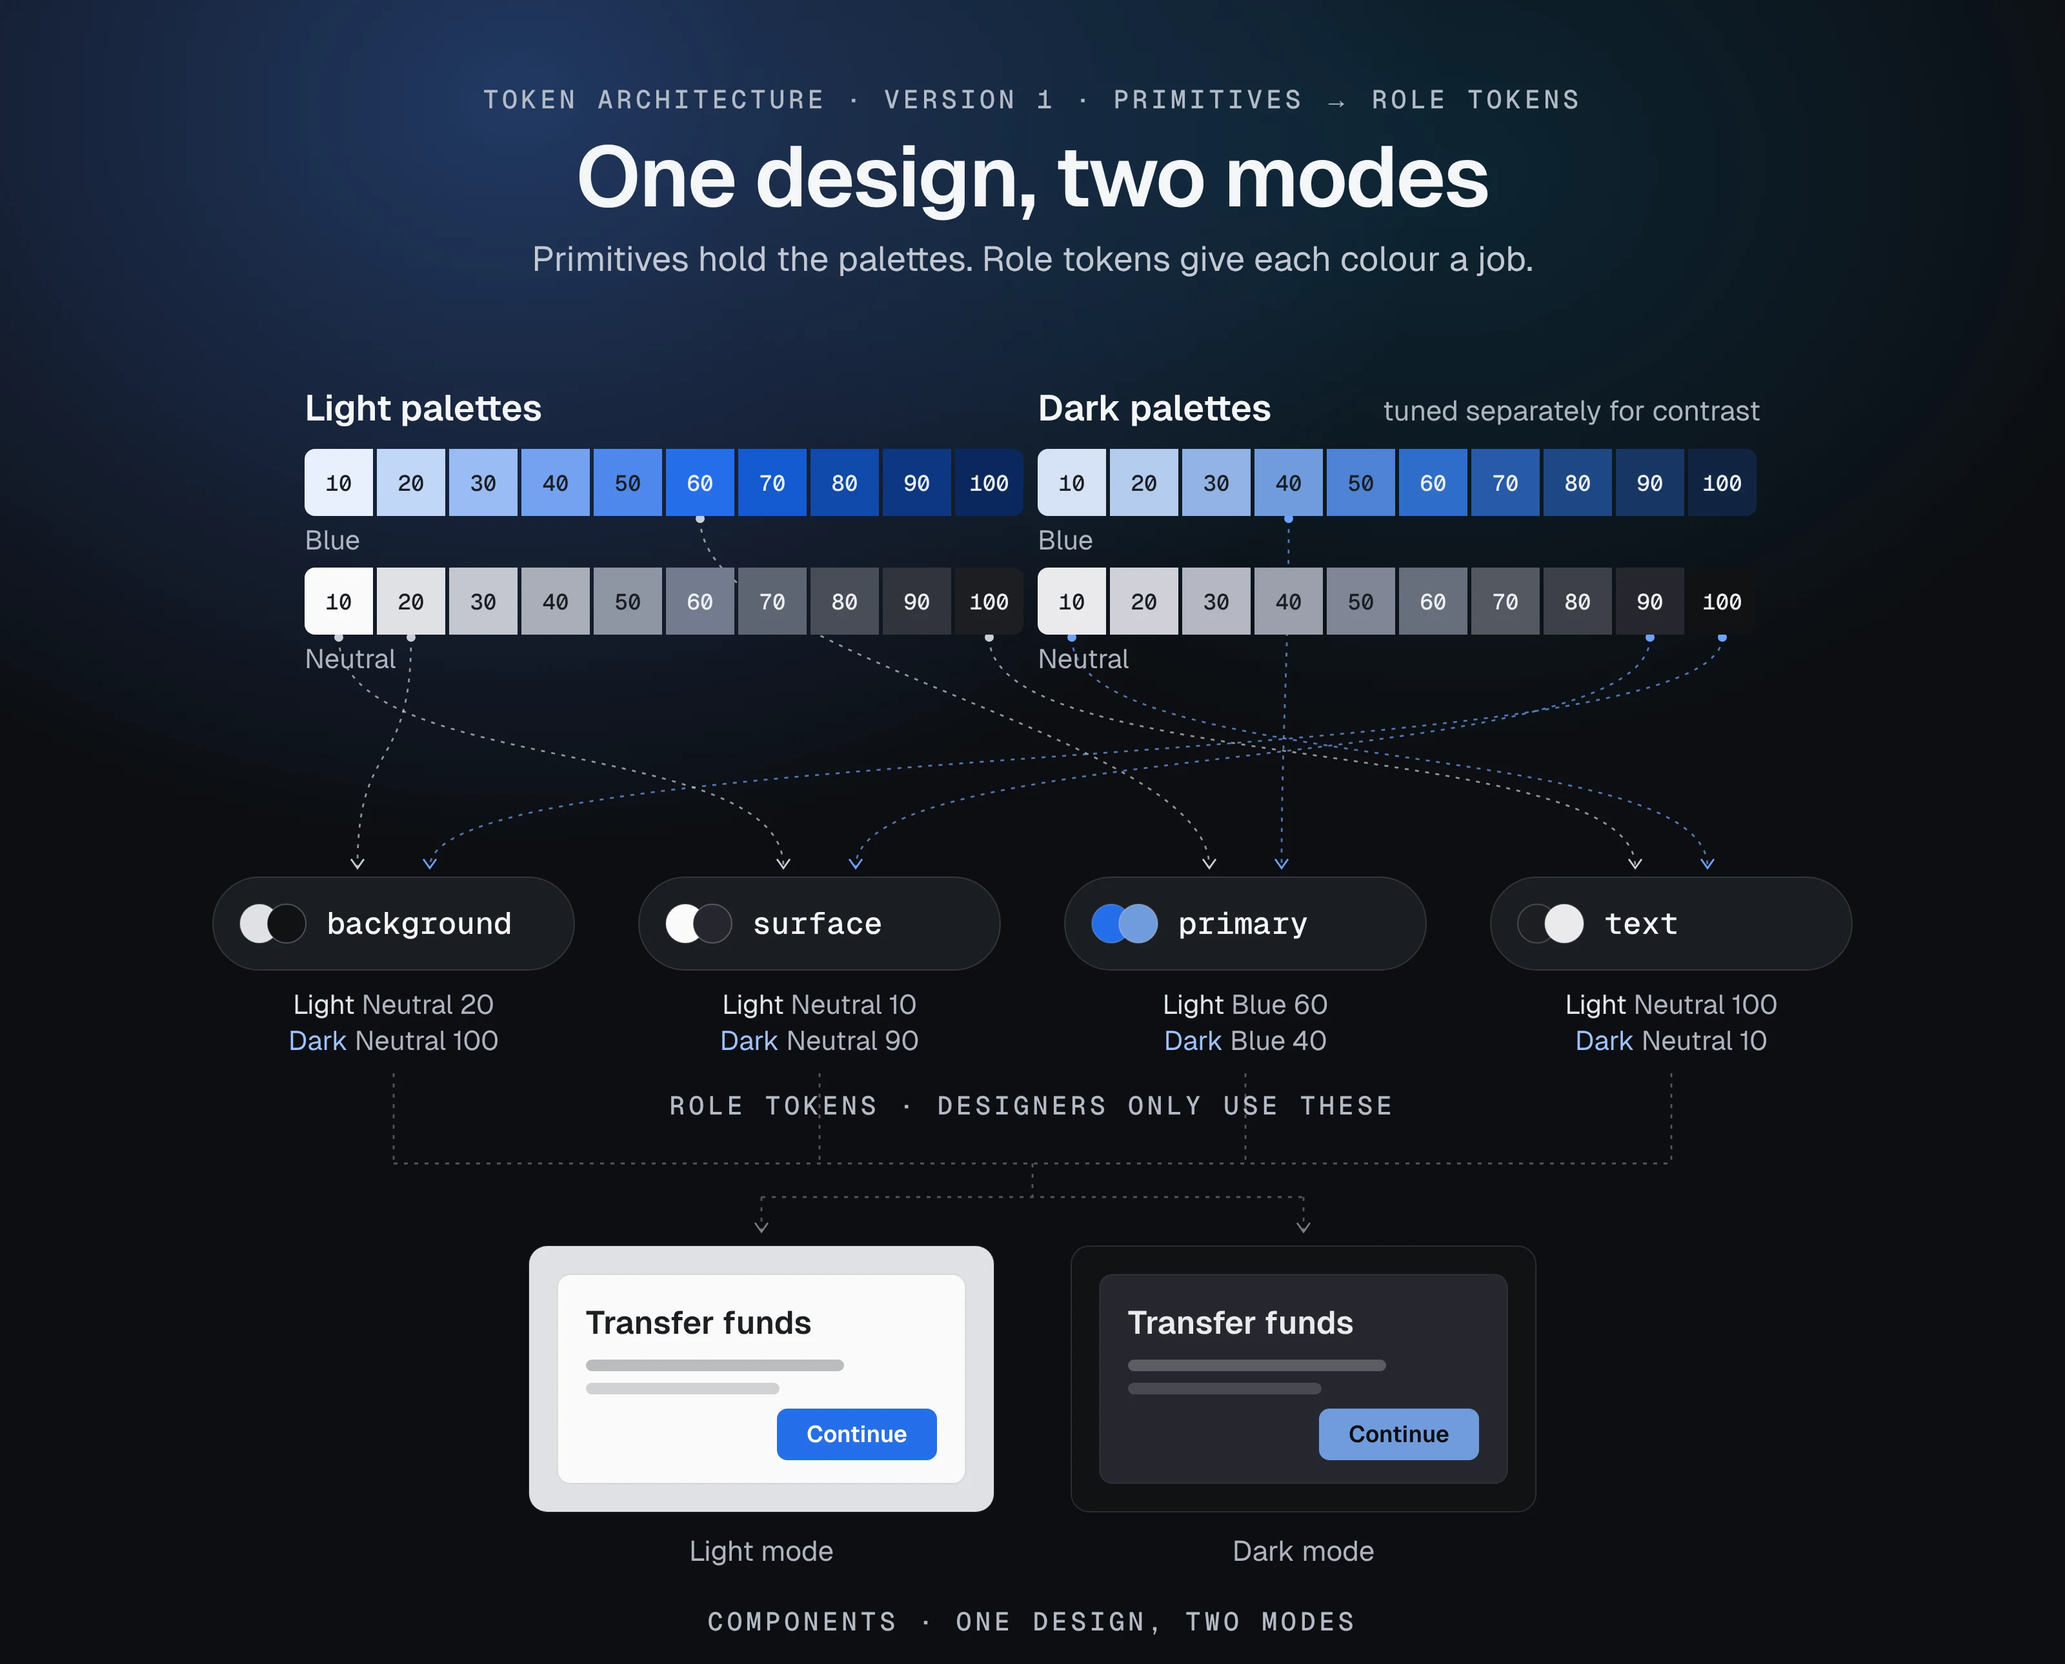
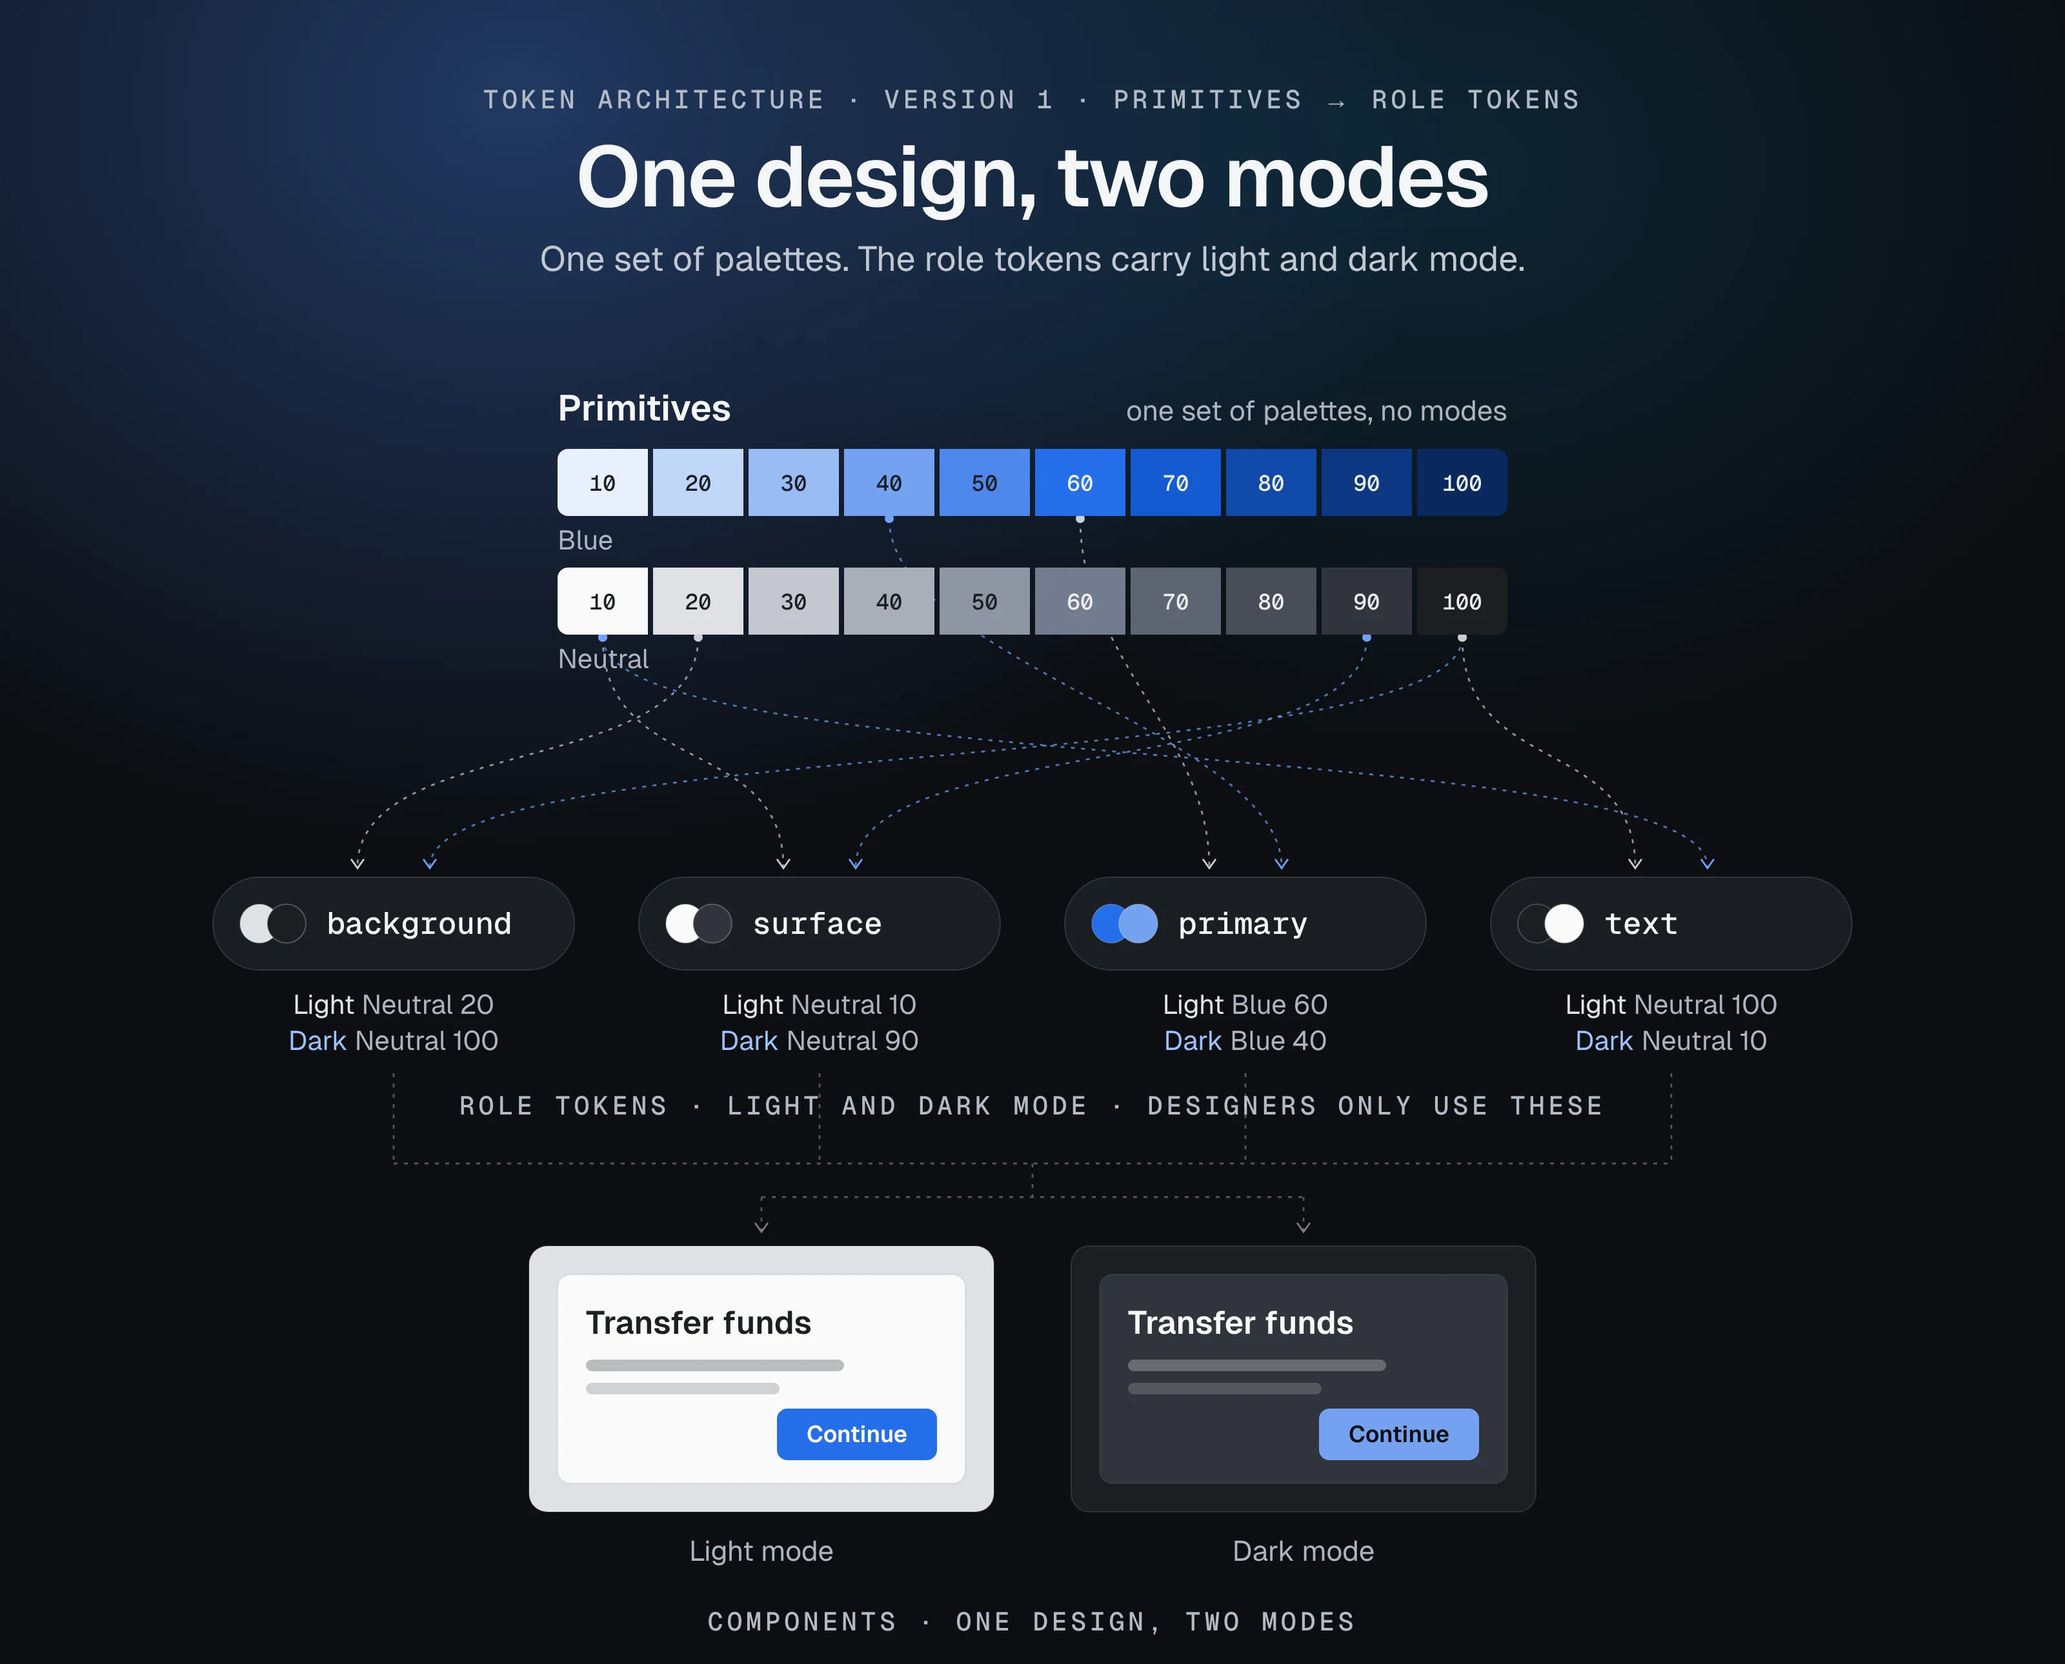
Rule builder: new content; v1 diagram with one palette set
- Rule builder text from the author's file: role, team, 4 of 4 result,
  context, customer signal, product risk, trade-off limit, testing with
  four managers, operational trust, outcome without the platform
  statistics, and a What I'd do differently takeaway
- Home card description and page meta updated
- Design system v1 diagram: one set of palettes; light and dark mode
  live on the role tokens

Claude-Session: https://claude.ai/code/session_01Xxpi6qVg2CXaCBZ57vkRh2

diff --git a/components/casestudy/RuleBuilderCase.tsx b/components/casestudy/RuleBuilderCase.tsx
@@ -21,11 +21,11 @@ export default function RuleBuilderCase() {
 
         <div className="cs-hero-side">
           <CsGlance
-            role="Product Designer, owned simplifying the rules"
-            team="3–4 designers, PM, Developers"
+            role="Product Designer, owned the rule builder and operational trust"
+            team="4 designers, PM, team lead, developers"
             results={[
-              { value: "If → Then", label: "every rule reads as one sentence: a condition, then an event", art: "ifThen" },
-              { value: "2 changes", label: "from testing with operators: live readings and timed waits", art: "testing" },
+              { value: "4 of 4", label: "greenhouse managers built a rule without help in testing", art: "fourOfFour" },
+              { value: "2 changes", label: "came from that testing: live readings and timed waits", art: "testing" },
               { value: "Shipped", label: "live in production, in Persian (RTL)", art: "rtl" },
             ]}
           />
@@ -49,8 +49,9 @@ export default function RuleBuilderCase() {
         <p>
           The product connects greenhouse sensors and controllers to a mobile app. Operators could
           monitor every hall and switch fans, misters and heaters remotely, with a few fixed default
-          rules. But routine operation was still manual: the app provided the control channel, not
-          the autonomy.
+          rules. But routine operation was still manual. When humidity rose, the app sent an alert,
+          and the operator still had to switch on the heater or the fan by hand. The app provided
+          the control channel, not the autonomy.
         </p>
         <p className="cs-quote">
           &ldquo;I have to manually adjust things, like turning the fans on and off throughout the
@@ -75,7 +76,8 @@ export default function RuleBuilderCase() {
         <span className="cs-num">Customer signal</span>
         <h2>Demand for time-based and combined rules</h2>
         <p>
-          User interviews on automation surfaced two needs: rules that run on a schedule, and rules
+          Our team lead visited several greenhouses and interviewed the operators in person. I
+          worked from those findings. Two needs came up: rules that run on a schedule, and rules
           that combine a schedule with a sensor threshold.
         </p>
         <p className="cs-quote">
@@ -93,11 +95,11 @@ export default function RuleBuilderCase() {
         <span className="cs-num">The product risk</span>
         <h2>More capability, fewer people able to use it</h2>
         <p>
-          The core users were older, non-technical, and not comfortable with technology in general.
-          Many already struggled with simple threshold rules and had asked for templates and
-          step-by-step guidance. Each new requirement added
-          expressive power, and moved the product closer to programming. A logic editor would have
-          served the few power users and lost the core segment.
+          The core users were older, non-technical and not comfortable with technology in general.
+          They were unhappy doing everything by hand, but in the greenhouse visits, our team lead
+          saw many of them already struggling with the simple threshold rules they had. Each new
+          requirement added expressive power and moved the product closer to programming. A logic
+          editor would have served the few power users and lost the core segment.
         </p>
         <p className="cs-quote">
           The goal: deliver the expressive power of conditional logic to users who will never think
@@ -138,7 +140,9 @@ WHEN always`}</pre>
         </div>
         <p className="cs-trade">
           <b>Trade-off:</b> less flexible than a free-form editor, and more taps for power users.
-          Accepted, because a wrong rule moves physical equipment.
+          Accepted, because a wrong rule moves physical equipment. The model also has a limit: with
+          several prerequisites, the event sentence gets long, as in the example above. That&apos;s
+          where one sentence starts to strain.
         </p>
       </section>
 
@@ -158,7 +162,7 @@ WHEN always`}</pre>
         <ol className="cs-rules is-plain">
           <li><span><b>Source.</b> A condition watches one specific sensor or the hall average, so a single sensor near a door doesn&apos;t have to decide alone.</span></li>
           <li><span><b>Live readings.</b> Suggested sensors show their current value (&ldquo;air humidity, now 65%&rdquo;), so thresholds are set against the actual state of the hall. Added after testing.</span></li>
-          <li><span><b>Ready-made conditions.</b> Each sensor offers presets, including one with an exit: &ldquo;if it drops below 20%, until it reaches 30%&rdquo;. A custom condition covers the rest.</span></li>
+          <li><span><b>Ready-made conditions.</b> Each sensor offers presets, including one with an exit: &ldquo;if it drops below 20%, until it reaches 30%&rdquo;. The exit keeps machines from flickering on and off around a single threshold. A custom condition covers the rest.</span></li>
           <li><span><b>Suggested controllers.</b> The event starts the same way: the likely devices first, then the full list.</span></li>
         </ol>
         <p className="cs-trade">
@@ -230,11 +234,14 @@ WHEN always`}</pre>
       {/* 7b */}
       <section className="cs-reveal">
         <span className="cs-num">Testing</span>
-        <h2>Two changes came from testing with operators</h2>
-        <p>We tested the flow with a group of operators. Two things they needed were missing:</p>
+        <h2>Four managers, four rules, two changes</h2>
+        <p>
+          We tested the flow with four greenhouse managers. All four built a rule on their own,
+          without help. Two things they needed were missing:
+        </p>
         <ol className="cs-rules is-plain">
-          <li><span><b>The current state.</b> Choosing a sensor showed only its name. Operators wanted to see what it reads right now before setting a threshold, so every sensor card now shows its live value.</span></li>
-          <li><span><b>A wait between devices.</b> Prerequisites only covered another controller&apos;s state. Operators needed time between machines, so a timed wait became a second prerequisite type.</span></li>
+          <li><span><b>The current state.</b> Choosing a sensor showed only its name. Managers wanted to see what it reads right now before setting a threshold, so every sensor card now shows its live value.</span></li>
+          <li><span><b>A wait between devices.</b> Prerequisites only covered another controller&apos;s state. Managers needed time between machines, so a timed wait became a second prerequisite type.</span></li>
         </ol>
       </section>
 
@@ -242,7 +249,10 @@ WHEN always`}</pre>
       <section className="cs-reveal">
         <span className="cs-num">Operational trust</span>
         <h2>Making automation observable and controllable</h2>
-        <p>Handing control to software raised three operator questions, each answered in the product:</p>
+        <p>
+          Handing control to software raised three operator questions. I designed the answers,
+          starting from a brainstorm with the other designers:
+        </p>
         <ol className="cs-rules is-plain">
           <li><span><b>Which rules are running?</b> Rules are grouped into categories, such as seasons, with one active per zone. Switching requires an explicit confirmation of what will run.</span></li>
           <li><span><b>Who changed this device?</b> Every controller shows its current control mode: manual, rule-based or scheduled.</span></li>
@@ -268,28 +278,33 @@ WHEN always`}</pre>
         <h2>Shipped to production</h2>
         <p>
           The rule builder is live, in Persian with a right-to-left layout, on a platform that
-          runs real greenhouses every day. The figures below are taken from the company&apos;s website:
+          runs real greenhouses every day.
         </p>
-        <ul className="cs-results is-four">
-          <li><span className="v">31+</span><span className="l">active users</span></li>
-          <li><span className="v">65+</span><span className="l">active controllers</span></li>
-          <li><span className="v">28M+</span><span className="l">messages sent to the server</span></li>
-          <li><span className="v">99.97%</span><span className="l">system uptime, as stated on the company&apos;s website</span></li>
-        </ul>
-        <p className="cs-source">Source: the company&apos;s public website. Platform-wide figures, not my own measurements.</p>
         <p>
-          I left before post-launch measurement of the rule builder itself.
-          These are the metrics I would use:
+          I left before post-launch measurement. Before leaving, I defined three metrics for the
+          team:
         </p>
         <ol className="cs-rules is-plain">
           <li><span><b>Adoption.</b> Share of accounts with at least one scheduled rule.</span></li>
           <li><span><b>Effort.</b> Manual device switches per week, before and after.</span></li>
           <li><span><b>Conflict.</b> Manual overrides of rule-controlled devices.</span></li>
         </ol>
+      </section>
+
+      {/* 10 */}
+      <section className="cs-reveal">
+        <span className="cs-num">What I learned</span>
         <p className="cs-takeaway">
-          <span>What I learned</span>
           In automation products, the limit is rarely the engine. It&apos;s the user&apos;s model of
           it. Design the model first, then the interface.
+        </p>
+        <p className="cs-takeaway">
+          <span>What I&apos;d do differently</span>
+          The schedule is the one screen where the one-sentence idea breaks. With an interval, an
+          on-duration and active time windows combined, operators can&apos;t see when their device
+          will actually run. I&apos;d end the schedule the way the rule itself works: with one
+          summary sentence, such as &ldquo;Monday and Friday at 08:00, 10:00 and 13:00, on for 25
+          minutes each.&rdquo;
         </p>
       </section>
 

diff --git a/components/casestudy/GlanceArt.tsx b/components/casestudy/GlanceArt.tsx
@@ -10,7 +10,7 @@ import type { CSSProperties, ReactNode } from "react";
 export type GlanceArtName =
   | "questions" | "products" | "oneDesign"
   | "tickets" | "audit" | "rules"
-  | "ifThen" | "testing" | "rtl"
+  | "ifThen" | "fourOfFour" | "testing" | "rtl"
   | "deflect" | "onePage" | "live"
   | "oneRow" | "verified" | "branch"
   | "surfaces" | "dashboard" | "shadowing";
@@ -157,6 +157,20 @@ const ART: Record<GlanceArtName, ReactNode> = {
         ))}
       </g>
       <circle cx={174} cy={60} r={3} className="ac" />
+    </>
+  ),
+  fourOfFour: (
+    <>
+      {[44, 88, 132, 176].map((x, i) => (
+        <g key={x} className="rise" style={d(0.12 * i)}>
+          <rect x={x} y={20} width={36} height={80} rx={8} className="g3" />
+          <circle cx={x + 18} cy={46} r={9} className="g1" />
+          <path d={`M${x + 4},${80} a14,14 0 0 1 28,0z`} className="g1" />
+          <circle cx={x + 30} cy={26} r={8} className="ac glow pop" style={d(0.5 + 0.18 * i)} />
+          <path d={`M${x + 26},${26} l3,3 l5,-6`} className="check pop" style={d(0.5 + 0.18 * i)} />
+          <rect x={x + 8} y={88} width={20} height={5} rx={2.5} className="p2" />
+        </g>
+      ))}
     </>
   ),
   testing: (

diff --git a/data/caseStudies.ts b/data/caseStudies.ts
@@ -21,9 +21,9 @@ export const caseStudies: CaseStudy[] = [
     slug: "iot-rule-builder",
     title: "Greenhouse rules in one sentence",
     short:
-      "Rules that read as one sentence, built from live sensor readings and ready-made conditions, so operators who never think in if-else can automate their greenhouse.",
+      "Operators who switched fans and heaters by hand after every alert now build rules alone: every rule reads as one sentence, built from live sensor readings and ready-made conditions.",
     description:
-      "Designing an IoT rule builder for non-technical greenhouse operators: if-then rules in plain language, choices grounded in live sensor data, and scheduling that stays hidden until it is needed.",
+      "Designing an IoT rule builder for non-technical greenhouse operators: if-then rules in plain language, choices grounded in live sensor data, and scheduling that stays hidden until it's needed.",
     meta: "IoT · Logic Design",
     illustration: "rules",
   },

diff --git a/app/work/case-study.css b/app/work/case-study.css
@@ -2544,7 +2544,7 @@
 .cs-result-art .line { fill: none; stroke-width: 2.2; stroke-linejoin: round; stroke-linecap: round; }
 .cs-result-art .ring { fill: none; stroke: rgba(255, 255, 255, .32); stroke-dasharray: 3 3; }
 .cs-result-art .needle { stroke: #fff; stroke-width: 2.2; stroke-linecap: round; }
-.cs-result-art .check { fill: none; stroke: #fff; stroke-width: 2.6; stroke-linecap: round; stroke-linejoin: round; }
+.cs-result-art .check { fill: none; stroke: #fff; stroke-width: 2.2; stroke-linecap: round; stroke-linejoin: round; }
 .cs-result-art .tick { fill: none; stroke: #8fd19e; stroke-width: 1.8; stroke-linecap: round; stroke-linejoin: round; }
 .cs-result-art .x { fill: none; stroke: #ff7a7a; stroke-width: 2; stroke-linecap: round; }
 .cs-result-art .q { fill: none; stroke: #fff; stroke-width: 1.8; stroke-linecap: round; }
